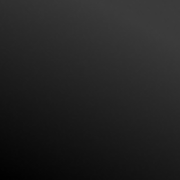
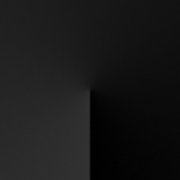
fix: do not trigger shockwave over interactive elements

diff --git a/src/components/shockwave.tsx b/src/components/shockwave.tsx
@@ -14,6 +14,10 @@ const FADE = 1.5; // how sharply the ripple dims over its life; higher fades soo
 const RIPPLE_LIMIT = 6; // live ripples; each one adds work at every mesh vertex
 const MESH = "rgba(0,0,0,0.1)";
 const TAU = Math.PI * 2;
+// Anything the click already means something to. A ripple under a link or a
+// button reads as a second, competing response to the same press.
+const INTERACTIVE =
+  'a[href],button,input,select,textarea,label,summary,[role="button"],[role="link"],[contenteditable=""],[contenteditable="true"]';
 
 type Ripple = { x: number; y: number; start: number };
 
@@ -308,6 +312,10 @@ function runShockwave({ canvas, ctx, mask, maskCtx }: Surfaces) {
 
   function handleClick(event: MouseEvent) {
     if (reducedMotion.matches) return;
+    // `closest` rather than a check on the target itself, so a click landing on
+    // the icon or text inside a control still counts as a click on the control.
+    const target = event.target;
+    if (target instanceof Element && target.closest(INTERACTIVE)) return;
     // Clicks can arrive faster than ripples expire, so retire the oldest.
     if (ripples.length >= RIPPLE_LIMIT) ripples.shift();
     // The canvas is fixed at the viewport origin, so client coords are already
